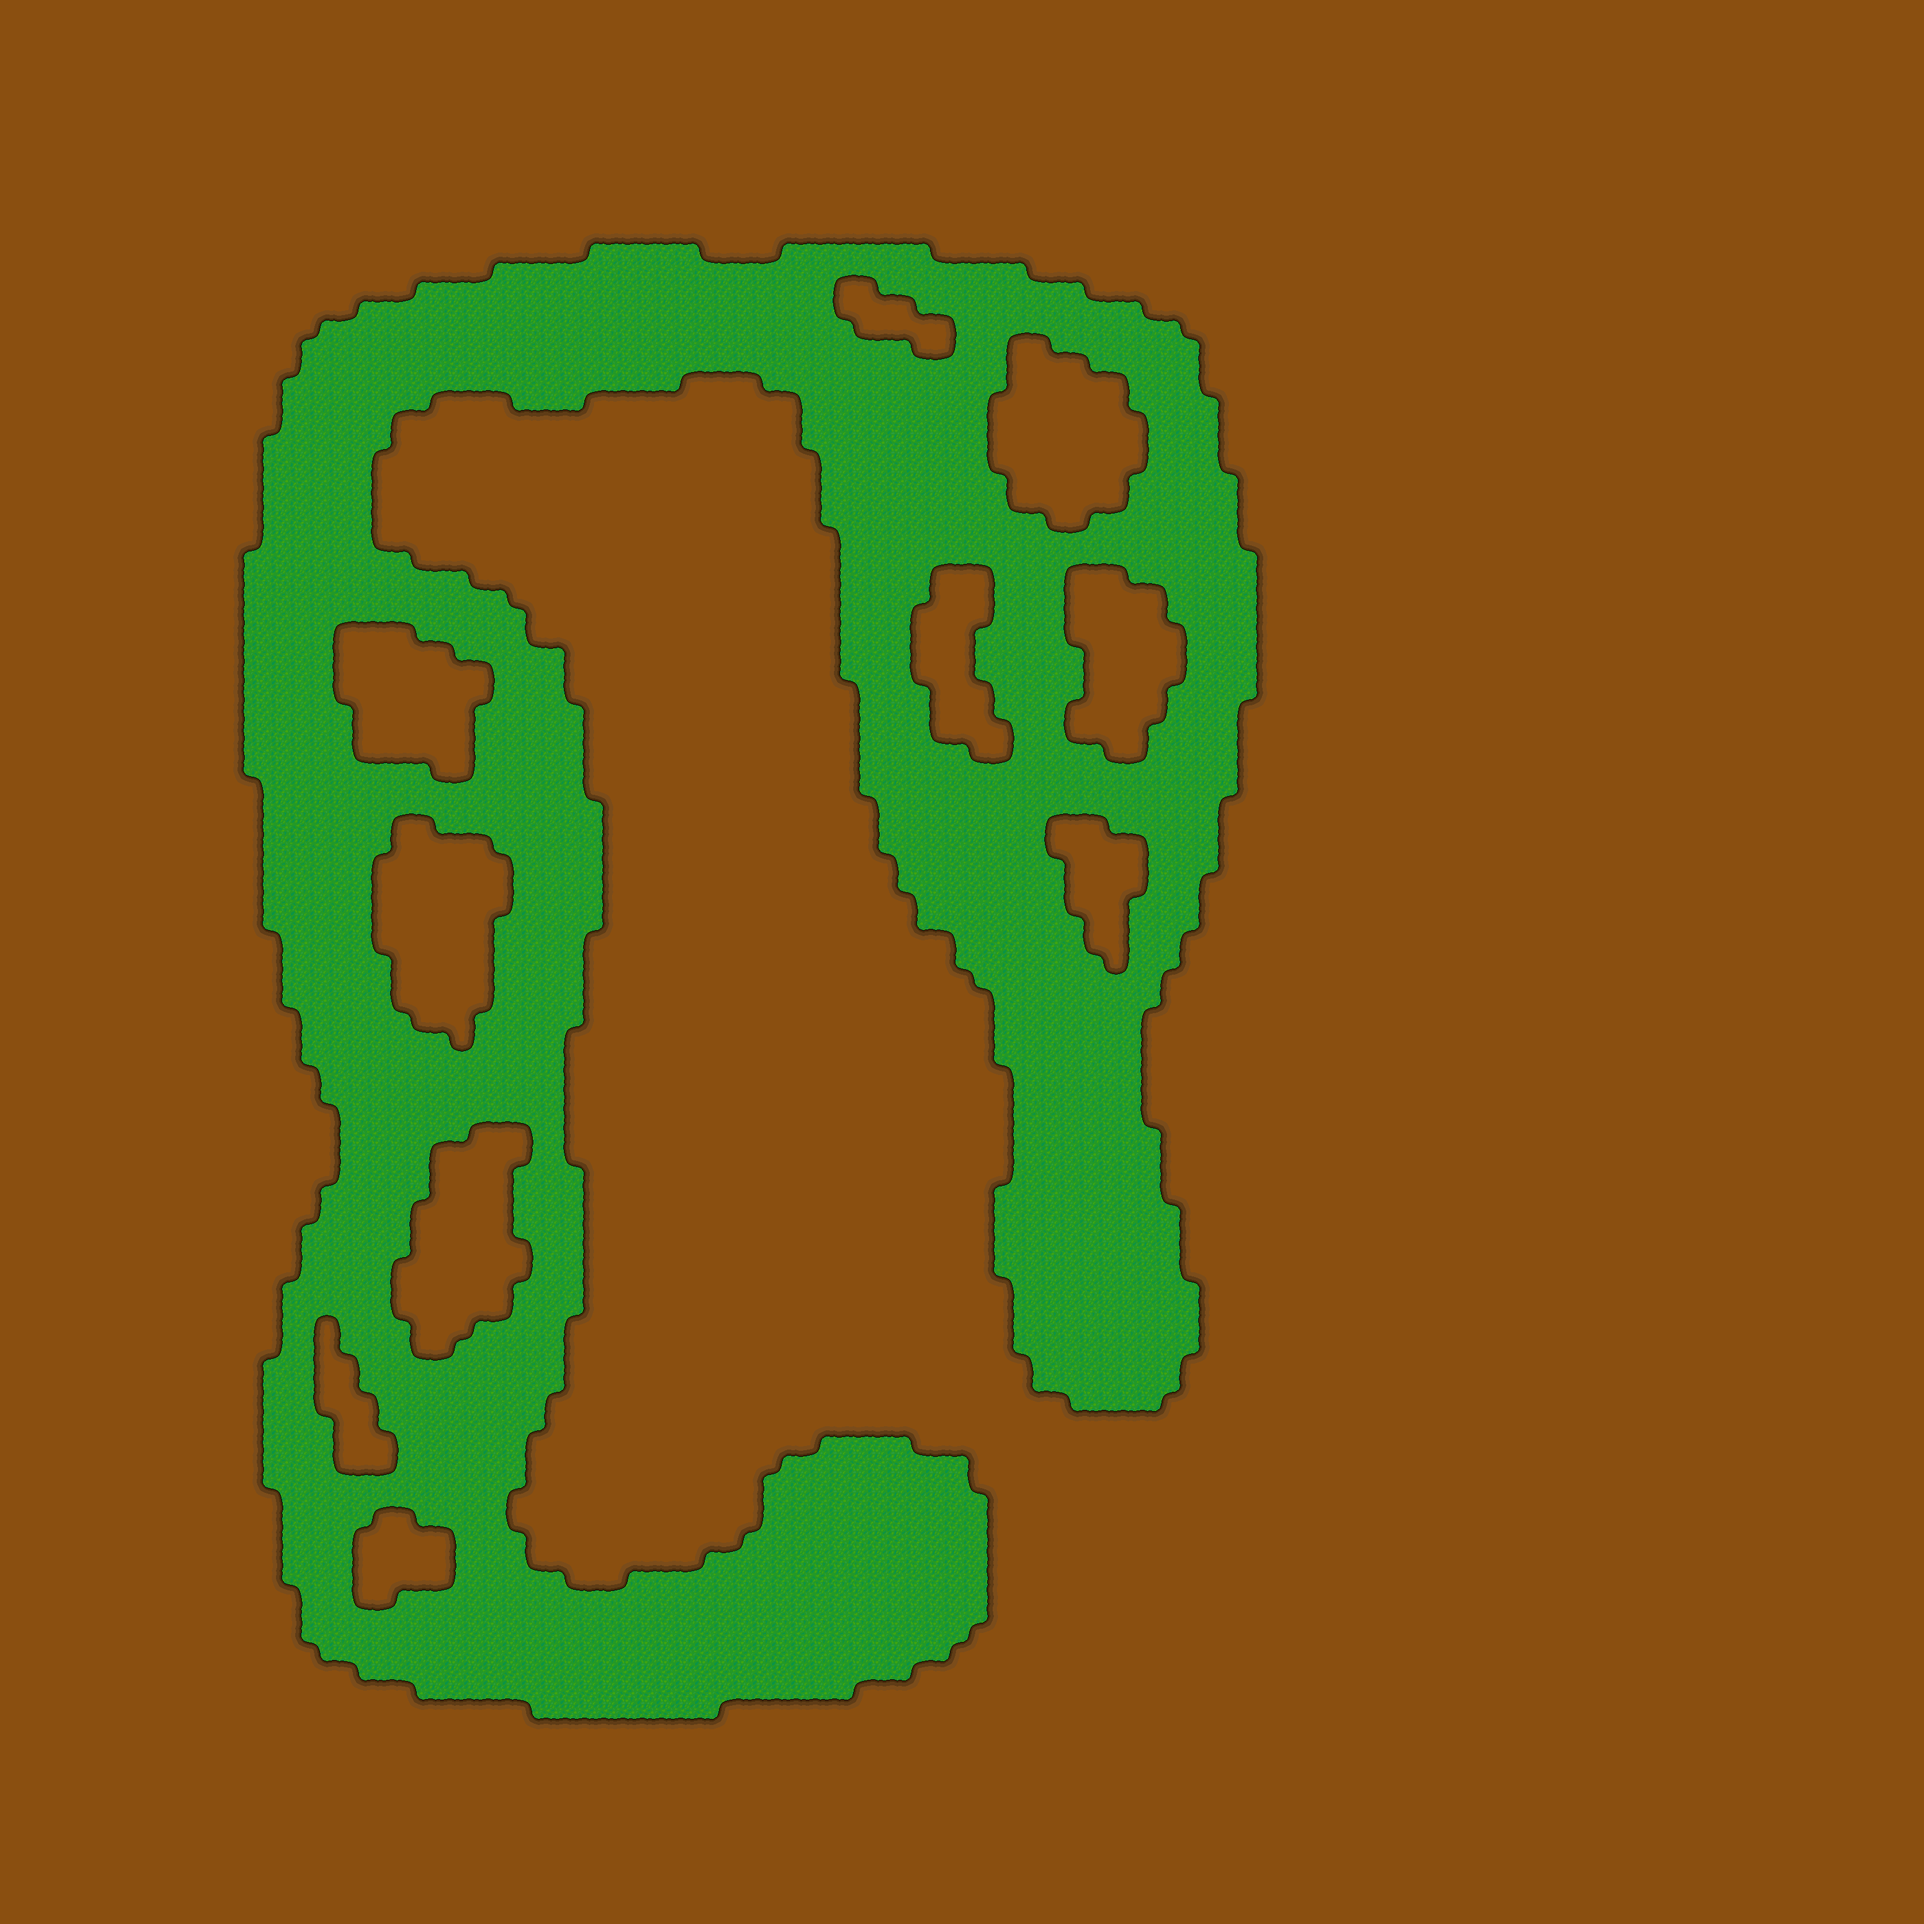
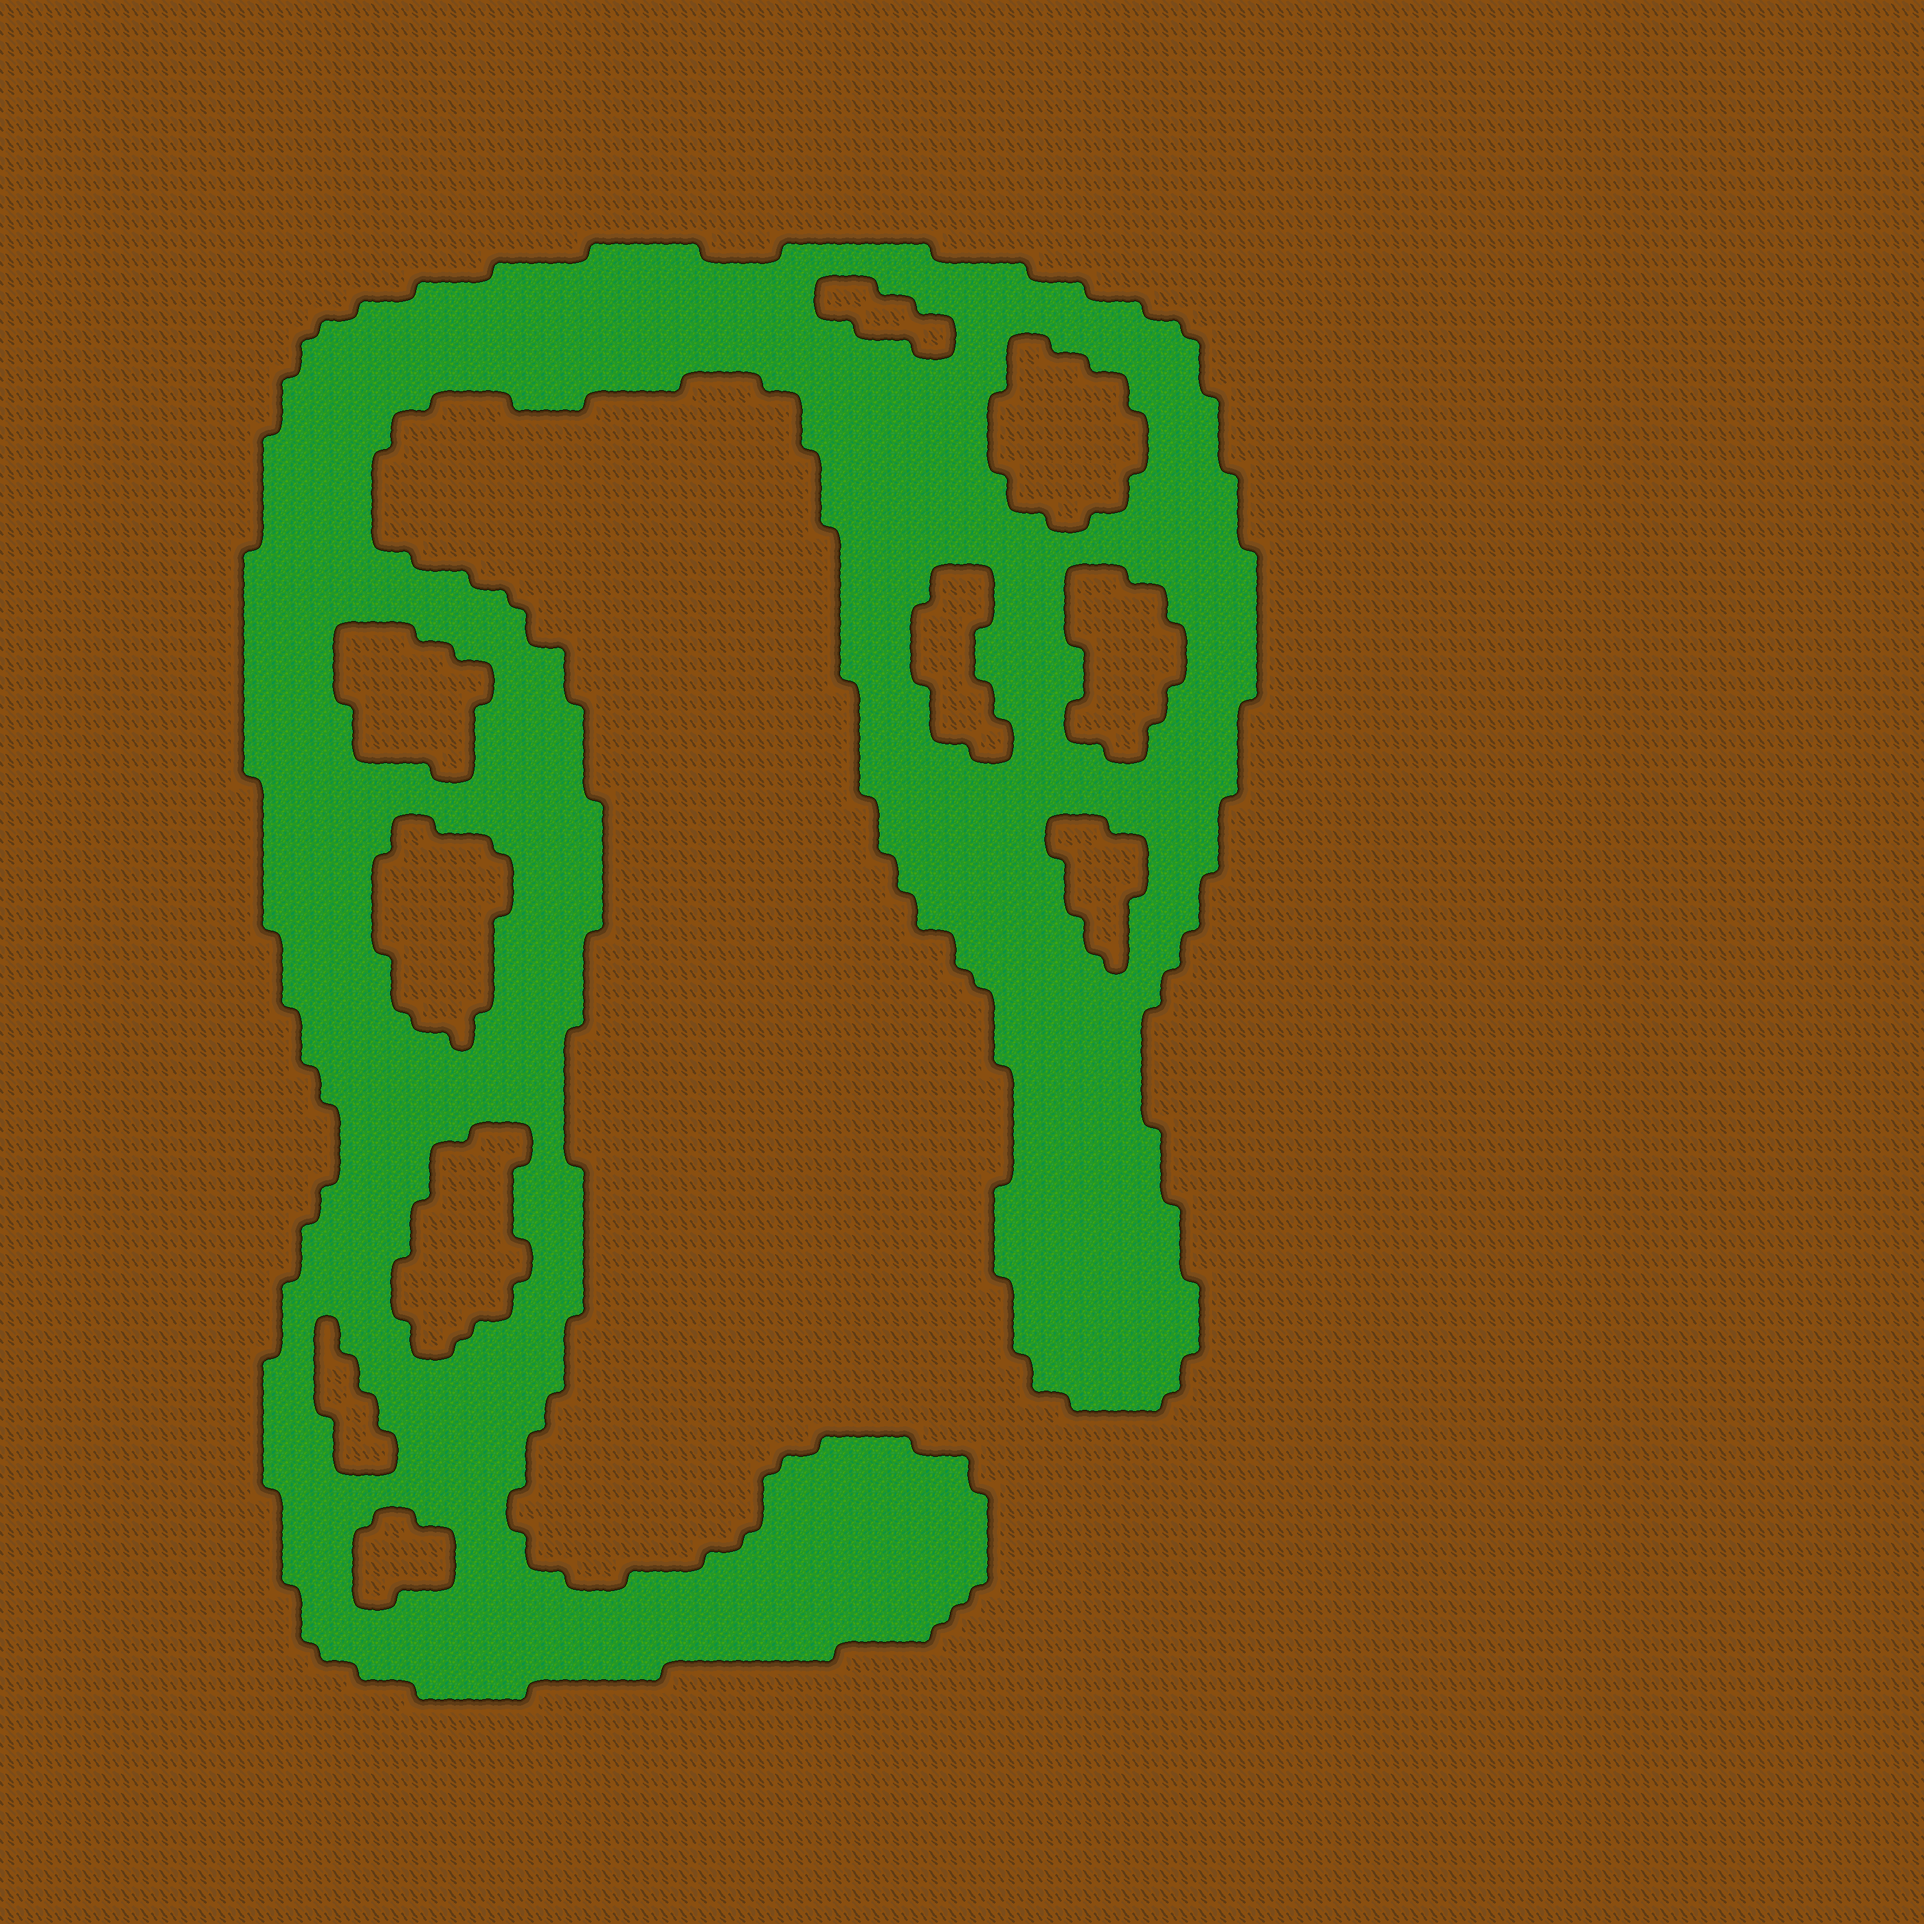
Finished lvl 6

diff --git a/BPA-Tank-Racer-Game/BPA-Tank-Racer-Game/gameScreen.cs b/BPA-Tank-Racer-Game/BPA-Tank-Racer-Game/gameScreen.cs
@@ -59,7 +59,7 @@ namespace BPA_Tank_Racer_Game
             //Random Level
             int level = random.Next(1, levelCount + 1);
             this.level = level;
-            Setup(content, 5);
+            Setup(content, 6); //TEMP
         }
 
         public GameScreen(ContentManager content, EventHandler screenEvent, int level,
@@ -549,6 +549,14 @@ namespace BPA_Tank_Racer_Game
                 powerupSpawns.Add(new Vector2(2170, 2060));
                 powerupSpawns.Add(new Vector2(892, 2288));
                 powerupSpawns.Add(new Vector2(1088, 1032));
+            }
+            else if (level == 6)
+            {
+                background = new Background(content.Load<Texture2D>("Level6"));
+                startPosInImage = new Vector2(1800, 2200);
+                finishPosInImage = new Vector2(1444, 2570);
+
+                //Powerup spawn locations in the image
             }
             else // Level 1
             {

diff --git a/BPA-Tank-Racer-Game/BPA-Tank-Racer-Game/AITank.cs b/BPA-Tank-Racer-Game/BPA-Tank-Racer-Game/AITank.cs
@@ -96,6 +96,11 @@ namespace BPA_Tank_Racer_Game
                 colors.Add(new Color(142, 67, 34));
                 colors.Add(new Color(136, 49, 19));
                 colors.Add(new Color(121, 55, 29));
+                //Jungle Colors
+                colors.Add(new Color(70, 42, 11));
+                colors.Add(new Color(95, 60, 22));
+                colors.Add(new Color(123, 76, 26));
+                colors.Add(new Color(138, 79, 16));
 
                 //Steer away from border
                 foreach (Color color in colors)

diff --git a/BPA-Tank-Racer-Game/BPA-Tank-Racer-Game/LevelSelectionScreen.cs b/BPA-Tank-Racer-Game/BPA-Tank-Racer-Game/LevelSelectionScreen.cs
@@ -61,6 +61,7 @@ namespace BPA_Tank_Racer_Game
             levels.Add(content.Load<Texture2D>("Level3Icon"));
             levels.Add(content.Load<Texture2D>("Level4Icon"));
             levels.Add(content.Load<Texture2D>("Level5Icon"));
+            levels.Add(content.Load<Texture2D>("Level6Icon"));
         }
 
         public override void Update(GameTime gametime)
